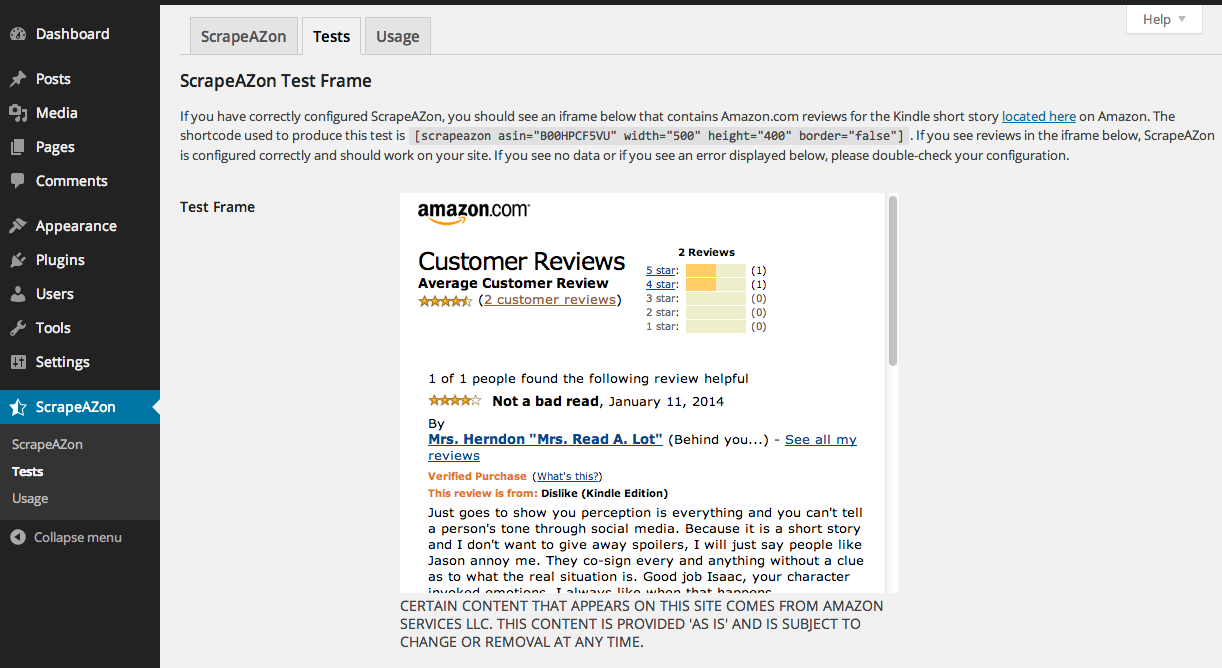
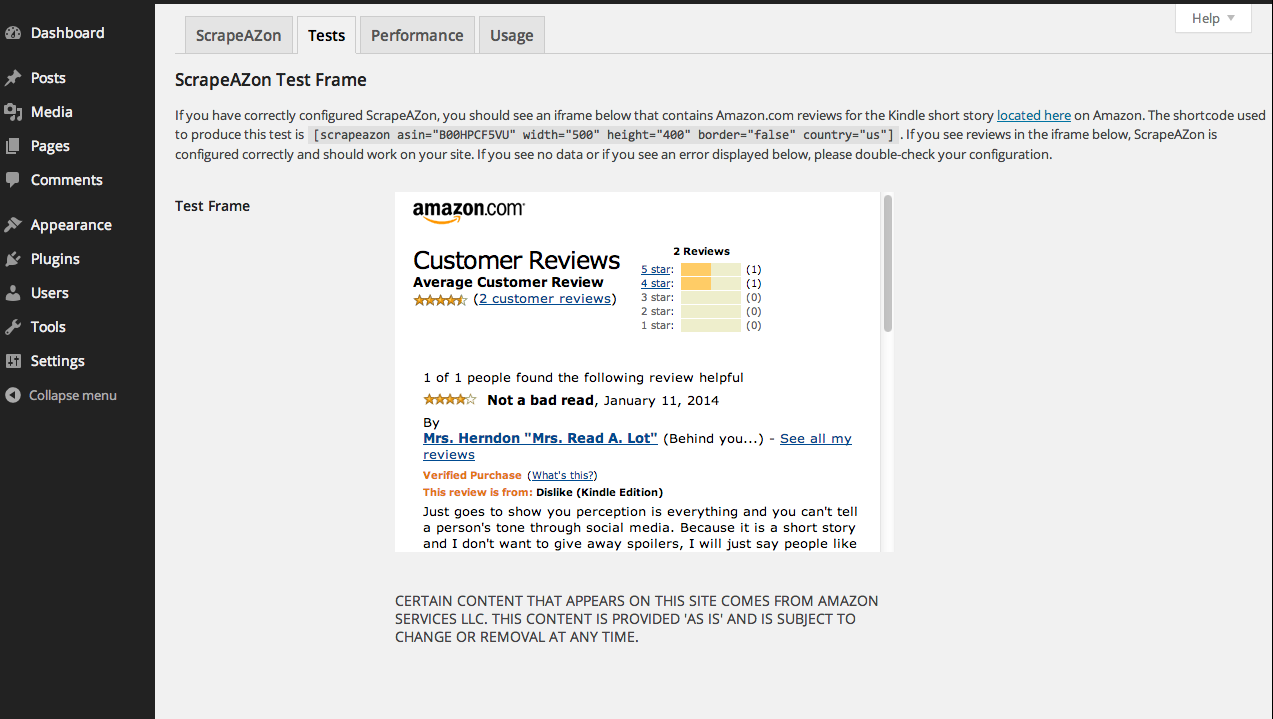
2.1.0-beta3
git-svn-id: https://plugins.svn.wordpress.org/scrapeazon/trunk@950258 b8457f37-d9ea-0310-8a92-e5e31aec5664

Changed region(s): [[0.0, 0.0, 1.0, 1.0], [0.311, 0.2695, 0.7152, 0.988], [0.6841, 0.2695, 0.7463, 0.5389]]

diff --git a/szclasses.php b/szclasses.php
@@ -705,6 +705,10 @@ class szWPOptions
                           __('disables the border that some browsers automatically add to iframes.','scrapeazon') .
                           '</li><li><code>country</code>: ' .
                           __('Overrides the global country setting on the Settings page. Use the two-character country code for the Amazon International site from which you want to obtain reviews.','scrapeazon') .
+                          '</li><li><code>noblanks</code>: ' .
+                          __('When set to ','scrapeazon') .
+                          '<code>true</code> ' .
+                          __('prevents ScrapeAZon from displaying an iframe for products that have no reviews. By default, ScrapeAZon displays an iframe that contains Amazon\'s "Be the first to review this item" page.','scrapeazon') .
                           '</li><li><code>url</code>: ' .
                           __('When set to ','scrapeazon') .
                           '<code>true</code>, ' .
@@ -733,6 +737,8 @@ class szWPOptions
                           __('value to the number of hours you want the cached data to persist.','scrapeazon') .
                           '</p><p>' . 
                           __('You can also choose to clear the existing cached data from the WordPress database. However, you should always back up your WordPress database before attempting to delete data in bulk.','scrapeazon') .
+                          '</p><p>' .
+                          __('Please be aware that if you are using a caching plugin, such as W3 Total Cache, with object caching enabled, the Clear Cache option will not do anything. You will need to clear the object cache by using the caching plugin\'s clear cache feature.','scrapeazon') .
                           '</p>';
     
         $szScreen   = get_current_screen();           
@@ -1160,50 +1166,55 @@ class szShortcode
     {
         // When does our cache expire?
         $szSets            = new szWPOptions();
-        $szTransientExpire = $szSets->getCacheExpire();
-        unset($szSets);
-        
-        $szSCAtts = shortcode_atts( array(
-                 'asin'       => '',
-                 'upc'        => '',
-                 'isbn'       => '',
-                 'ean'        => '',
-                 'border'     => 'false',
-                 'width'      => '500',
-                 'height'     => '400',
-                 'country'    => 'us',
-                 'url'        => 'false',
-                 'noblanks'   => 'false'
-	           ), $szAtts);
-	           
-	    $szTransientID = $this->szTransientID();
-	           
-        if ((false === ($szOutput = get_transient($szTransientID)))||($szTransientID=='szT-testpanel'))
+        if((! $szSets->getAccessKey())||(! $szSets->getSecretKey())||(! $szSets->getAssocID()))
         {
-            $szURL        = $this->szAmazonURL($szSCAtts['asin'],$szSCAtts['upc'],$szSCAtts['isbn'],$szSCAtts['ean'],$szSCAtts['country']);
-            $szXML        = $this->szCallAmazonAPI($szURL);
-            $szResults    = simplexml_load_string($szXML);
-            $szHasReviews = $szResults->Items->Item->CustomerReviews->HasReviews;
-
-            $szFrameURL   = $this->szRetrieveFrameURL($szResults);
-                      
-            if(true === ($szSCAtts['url']==strtolower('true'))) 
-            {
-                set_transient ($szTransientID, $this->szShowURL($szFrameURL), $szTransientExpire * HOUR_IN_SECONDS);
-                return get_transient($szTransientID);
-            } else {
-                if($szTransientID=='szT-testpanel')
-                {
-                    return $this->szShowIFrame($szSCAtts['noblanks'],$szSCAtts['border'],$szSCAtts['width'],$szSCAtts['height'],$szFrameURL,$szHasReviews);
-                } else {
-                    set_transient ($szTransientID, $this->szShowIFrame($szSCAtts['noblanks'],$szSCAtts['border'],$szSCAtts['width'],$szSCAtts['height'],$szFrameURL,$szHasReviews), $szTransientExpire * HOUR_IN_SECONDS );
-                    return get_transient($szTransientID);
-                }
-            }
-
+             echo '';
         } else {
-            return get_transient($szTransientID);
+            $szTransientExpire = $szSets->getCacheExpire();
+        
+            $szSCAtts = shortcode_atts( array(
+                     'asin'       => '',
+                     'upc'        => '',
+                     'isbn'       => '',
+                     'ean'        => '',
+                     'border'     => 'false',
+                     'width'      => '',
+                     'height'     => '',
+                     'country'    => 'us',
+                     'url'        => 'false',
+                     'noblanks'   => 'false'
+	               ), $szAtts);
+	           
+	        $szTransientID = $this->szTransientID();
+       
+            if ((false === ($szOutput = get_transient($szTransientID)))||($szTransientID=='szT-testpanel'))
+            {
+                $szURL        = $this->szAmazonURL($szSCAtts['asin'],$szSCAtts['upc'],$szSCAtts['isbn'],$szSCAtts['ean'],$szSCAtts['country']);
+                $szXML        = $this->szCallAmazonAPI($szURL);
+                $szResults    = simplexml_load_string($szXML);
+                $szHasReviews = $szResults->Items->Item->CustomerReviews->HasReviews;
+
+                $szFrameURL   = $this->szRetrieveFrameURL($szResults);
+                      
+                if(true === ($szSCAtts['url']==strtolower('true'))) 
+                {
+                    set_transient ($szTransientID, $this->szShowURL($szFrameURL), $szTransientExpire * HOUR_IN_SECONDS);
+                    return get_transient($szTransientID);
+                } else {
+                    if($szTransientID=='szT-testpanel')
+                    {
+                        return $this->szShowIFrame($szSCAtts['noblanks'],$szSCAtts['border'],$szSCAtts['width'],$szSCAtts['height'],$szFrameURL,$szHasReviews);
+                    } else {
+                        set_transient ($szTransientID, $this->szShowIFrame($szSCAtts['noblanks'],$szSCAtts['border'],$szSCAtts['width'],$szSCAtts['height'],$szFrameURL,$szHasReviews), $szTransientExpire * HOUR_IN_SECONDS );
+                        return get_transient($szTransientID);
+                    }
+                }
+
+            } else {
+                return get_transient($szTransientID);
+            }
         }
+        unset($szSets);
     }
 }
 

diff --git a/scrapeazon.php b/scrapeazon.php
@@ -2,8 +2,8 @@
 /*
  * Plugin Name: ScrapeAZon
  * Plugin URI: http://www.timetides.com/scrapeazon-plugin-wordpress
- * Description: Retrieves Amazon.com reviews for products you choose from the Amazon Product Advertising API and displays those reviews in pages, posts, or as a widget on your WordPress blog. ScrapeAZon 2.0 features a new responsive layout option, better integration with the WordPress Settings API, contextual help, and a new exponential backoff method to help prevent errors when accessing the Amazon Product Advertising API from high-traffic sites.
- * Version: 2.1.0-beta1
+ * Description: Retrieves Amazon.com reviews for products you choose from the Amazon Product Advertising API and displays those reviews in pages, posts, or as a widget on your WordPress blog.
+ * Version: 2.1.0-beta3
  * Author: James R. Hanback, Jr.
  * Author URI: http://www.timetides.com
  * License: GPL3
@@ -29,7 +29,7 @@
  * Foundation, Inc., 51 Franklin St, Fifth Floor, Boston, MA  02110-1301  USA
  */
 
-// error_reporting(E_ALL);
+error_reporting(E_ALL);
 
 // Load plugin files and configuration
 $szPlugin = plugin_basename(__FILE__); 
